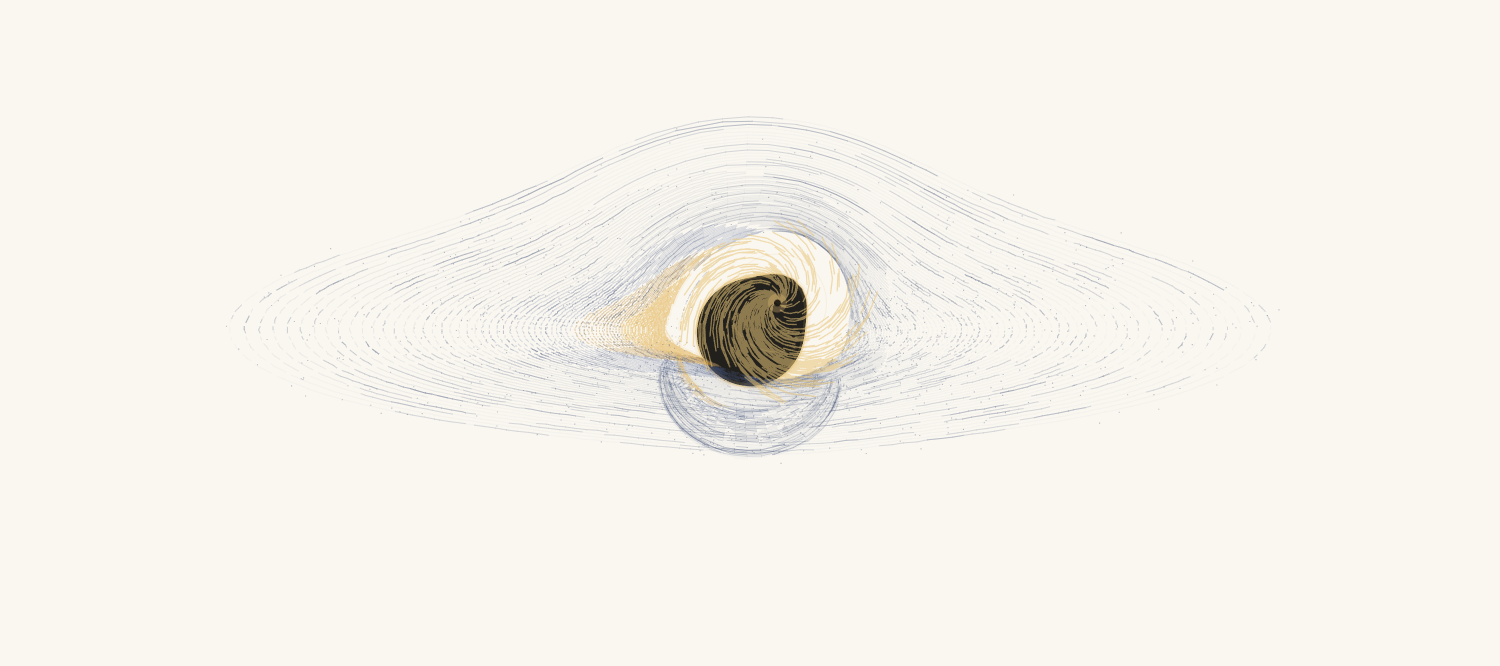
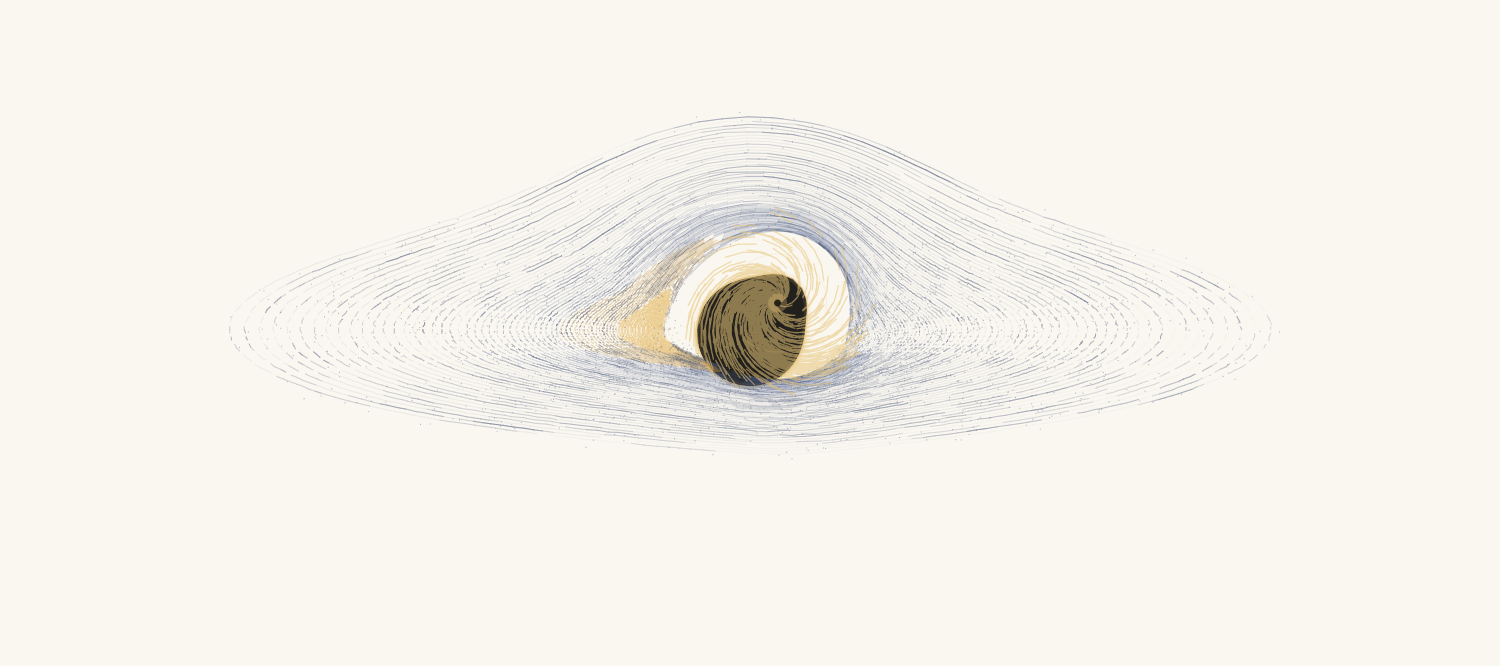
fix(proto): three physics errors in the lensed-disk render
Audited the animation against standard results. The geodesic integration,
the closed-form disk-crossing angles, the photon direction, the Doppler
construction, Omega = sqrt(M/r^3), and the 3*sqrt(3)M shadow radius all
check out. Four things did not.

1. ORBITAL SPEED was Newtonian. The Schwarzschild coordinate angular
   velocity really is Omega = sqrt(M/r^3), but the speed a static observer
   measures is r*Omega/sqrt(1-2M/r) = sqrt(M/(r-2M)). At the ISCO that is
   0.5c, not the 0.408c I was using -- so the beaming asymmetry, the whole
   reason one side burns, was understated.

2. GRAVITATIONAL REDSHIFT entered as (1-2M/r)^0.5 while the Doppler factor
   entered as delta^4. Both belong to the same redshift factor
   g = delta*sqrt(1-2M/r), and bolometric intensity goes as g^4 because
   I_nu/nu^3 is invariant. So the gravitational part must be (1-2M/r)^2.
   The inner disk was ~1.8x too bright.

3. NO OCCLUSION between image orders. A geometrically thin disk is
   optically thick, so the first crossing along a ray hides everything
   behind it. Recording every crossing rendered the secondary image on top
   of disk that should block it. Taking only the first in-range crossing
   keeps the secondary exactly where it is genuinely visible -- the band
   around the shadow -- and drops the curve count 148 -> 75 at i=78deg.

4. EMISSIVITY was an invented r^-1.15 described as physical. Replaced with
   the Shakura-Sunyaev / Page-Thorne thin-disk profile,
[…]

diff --git a/prototypes/blackhole.html b/prototypes/blackhole.html
@@ -88,7 +88,7 @@ const HOT = '232,196,120';
 // the critical impact parameter -- and it is a circle at EVERY inclination; only
 // the disk around it changes shape. On cream paper an unfilled void reads as light,
 // so the shadow has to be actual ink or the thing never feels black.
-const B_CRIT = 3 * Math.SQRT2 * Math.SQRT2 * Math.sqrt(3) / 2;   // = 3*sqrt(3)
+const B_CRIT = 3 * Math.sqrt(3);
 const SHADOW = '20,18,15';
 // Rays with b just above b_crit loop the hole many times before escaping, which is
 // why a thin, very bright photon ring sits right on the shadow's edge.
@@ -96,6 +96,16 @@ const RING_SCALE = 1.018;
 
 const INFALL_T = 0.75;   // seconds for a captured grain to reach the cursor
 const WIND = 3.6;        // radians of spiral on the way in
+
+// Observed bolometric intensity spans several orders of magnitude across the disk,
+// so it is normalised to the frame maximum and passed through a display transfer
+// exponent. This is a TONE MAP, not a physical term -- the physics stays exact and
+// the compression is confined to one honest place.
+const DISPLAY_GAMMA = 0.35;
+// Bucket edges on the tone-mapped [0,1]. The top bucket carries a wide bloom pass, so
+// it has to stay a genuinely small population -- the hot crescent, not half the disk.
+const BAND = [0.16, 0.34, 0.54, 0.79];
+const HOT_AT = 0.79;
 
 const stage = document.getElementById('stage');
 const cv = document.getElementById('c');
@@ -130,14 +140,19 @@ function rk4Profile(b) {
 const CELLS = NR * NPH;
 const gu = [new Float32Array(CELLS), new Float32Array(CELLS)];   // apparent radius, in M
 const gv = [new Float32Array(CELLS), new Float32Array(CELLS)];   // apparent angle
-const gb = [new Float32Array(CELLS), new Float32Array(CELLS)];   // beaming brightness
+const gb = [new Float32Array(CELLS), new Float32Array(CELLS)];   // observed flux (raw)
+// separate occupancy mask: the flux itself vanishes at the inner edge, so a zero
+// value is a legitimate sample and cannot double as "this cell is empty"
+const go = [new Uint8Array(CELLS), new Uint8Array(CELLS)];
 
 let curves = [];   // { ux, uy (model units), br, runs: [bucket, i0, i1], omega }
+let gMax = 0;      // peak observed flux this build, for the tone map
 
 function buildMap(incDeg) {
   const i = incDeg * Math.PI / 180, ci = Math.cos(i), si = Math.sin(i);
   const e2y = ci, e2z = -si;
-  gb[0].fill(0); gb[1].fill(0);
+  go[0].fill(0); go[1].fill(0);
+  gMax = 0;
 
   for (let bi = 0; bi < NB; bi++) {
     const b = B_MIN + (B_MAX - B_MIN) * (bi / (NB - 1));
@@ -162,21 +177,39 @@ function buildMap(incDeg) {
         let kz = -(dr * cp - r * sp);
         const kn = Math.hypot(kx, ky, kz) || 1; kx /= kn; ky /= kn; kz /= kn;
         const pd = Math.atan2(r * (sp * sps * e2y + cp * e2z), r * sp * cps);
-        const beta = Math.sqrt(M / r), g = 1 / Math.sqrt(1 - beta * beta);
+        // Local orbital speed measured by a STATIC observer at r. The Schwarzschild
+        // coordinate angular velocity is the Newtonian Omega = sqrt(M/r^3), but the
+        // locally measured speed is r*Omega / sqrt(1-2M/r) = sqrt(M/(r-2M)).
+        // The Newtonian sqrt(M/r) understates it badly: 0.408c vs the correct 0.5c
+        // at the ISCO, which visibly weakens the beaming asymmetry.
+        const beta = Math.sqrt(M / (r - 2 * M)), g = 1 / Math.sqrt(1 - beta * beta);
         const spd = Math.sin(pd), cpd = Math.cos(pd);
         const dop = 1 / (g * (1 - (beta * -spd * kx + beta * cpd * e2y * ky + beta * cpd * e2z * kz)));
-        // delta^4 beaming, gravitational redshift, and the disk's radial emission
-        // falloff -- the last is what keeps gold at the inner rim instead of
-        // flooding the whole approaching half
-        const bright = Math.min(9,
-          dop * dop * dop * dop
-          * Math.sqrt(Math.max(0, 1 - 2 * M / r))
-          * Math.pow(R_IN / r, 1.15));
+        // Total redshift factor g = delta * sqrt(1-2M/r): special-relativistic
+        // beaming times gravitational redshift. I_nu/nu^3 is a Lorentz invariant, so
+        // the BOLOMETRIC intensity scales as g^4 -- and the gravitational part must
+        // therefore enter as (1-2M/r)^2, not as a lone square root.
+        const gfac = dop * Math.sqrt(Math.max(0, 1 - 2 * M / r));
+        const g4 = gfac * gfac * gfac * gfac;
+        // Shakura-Sunyaev / Page-Thorne thin-disk emissivity: F ~ r^-3 (1 - sqrt(Rin/r)).
+        // It vanishes at the inner edge, which is what puts a dark lip inside the
+        // hot rim. Previously this was an invented r^-1.15, which is far too flat.
+        const emis = Math.pow(r, -3) * (1 - Math.sqrt(R_IN / r));
+        const flux = g4 * Math.max(0, emis);
         const ri = Math.min(NR - 1, (Math.log(r / R_IN) / LOGSPAN * NR) | 0);
         let ph = pd; if (ph < 0) ph += Math.PI * 2;
         const cell = ri * NPH + Math.min(NPH - 1, (ph / (Math.PI * 2) * NPH) | 0);
         const s = k === 0 ? 0 : 1;
-        if (gb[s][cell] === 0) { gu[s][cell] = b; gv[s][cell] = psi; gb[s][cell] = bright; }
+        if (!go[s][cell]) {
+          go[s][cell] = 1; gu[s][cell] = b; gv[s][cell] = psi; gb[s][cell] = flux;
+          if (flux > gMax) gMax = flux;
+        }
+        // A geometrically thin disk is OPTICALLY THICK: the first crossing along the
+        // ray hides everything behind it. Recording later crossings too was rendering
+        // the secondary image on top of disk that should occlude it. The secondary
+        // survives only where the direct ray misses the annulus entirely -- which is
+        // exactly the band around the shadow where it is genuinely visible.
+        break;
       }
     }
   }
@@ -189,17 +222,17 @@ function buildMap(incDeg) {
       const ux = [], uy = [], br = [];
       for (let p = 0; p < NPH; p++) {
         const cell = ri * NPH + p;
-        const bb = gb[s][cell];
-        if (bb === 0) { ux.push(NaN); uy.push(NaN); br.push(0); continue; }
+        if (!go[s][cell]) { ux.push(NaN); uy.push(NaN); br.push(0); continue; }
         ux.push(gu[s][cell] * Math.cos(gv[s][cell]));
         uy.push(-gu[s][cell] * Math.sin(gv[s][cell]));
-        br.push(bb);
+        // normalise the physical flux, then tone-map for display
+        br.push(Math.pow(gb[s][cell] / (gMax || 1), DISPLAY_GAMMA));
       }
       if (br.filter((v) => v > 0).length < 12) continue;
       // group consecutive samples of the same brightness bucket into one run, so a
       // whole colour band strokes as a single sub-path instead of per-segment calls
       const bkt = br.map((v) => v === 0 ? -1
-        : v < 0.13 ? 0 : v < 0.34 ? 1 : v < 0.70 ? 2 : v < 1.35 ? 3 : 4);
+        : v < BAND[0] ? 0 : v < BAND[1] ? 1 : v < BAND[2] ? 2 : v < BAND[3] ? 3 : 4);
       const runs = [];
       let start = -1;
       for (let p = 0; p <= NPH; p++) {
@@ -322,8 +355,8 @@ function drawField(g, t, animate, dt) {
   g.strokeStyle = `rgba(${HOT},0.55)`; g.lineWidth = 1.6 * DPR; g.stroke(ring);
 
   // bloom under the hottest band
-  g.strokeStyle = `rgba(${BUCKETS[4].rgb},0.10)`;
-  g.lineWidth = 5 * DPR; g.stroke(paths[4]);
+  g.strokeStyle = `rgba(${BUCKETS[4].rgb},0.12)`;
+  g.lineWidth = 3.5 * DPR; g.stroke(paths[4]);
   for (let i = 0; i < BUCKETS.length; i++) {
     g.strokeStyle = `rgba(${BUCKETS[i].rgb},${BUCKETS[i].a})`;
     g.lineWidth = BUCKETS[i].w * DPR;
@@ -348,7 +381,7 @@ function drawField(g, t, animate, dt) {
       if (Number.isNaN(uxv)) { started = false; continue; }
       if (started && Math.hypot(uxv - pux, uyv - puy) > JUMP) started = false;
       pux = uxv; puy = uyv;
-      if (c.br[k] > 1.35) hot = true;
+      if (c.br[k] > HOT_AT) hot = true;
       const [rx, ry] = toScreen(uxv, uyv);
       const [x, y] = lensPoint(rx, ry);
       if (started) {
@@ -401,7 +434,7 @@ function drawField(g, t, animate, dt) {
       d.cap = 0.001; d.ox = x; d.oy = y;
       continue;
     }
-    (c.br[k] > 1.35 ? dWarm : dCool).rect(x, y, sz, sz);
+    (c.br[k] > HOT_AT ? dWarm : dCool).rect(x, y, sz, sz);
   }
   g.fillStyle = 'rgba(52,66,102,0.34)'; g.fill(dCool);
   g.fillStyle = `rgba(${HOT},0.5)`;     g.fill(dWarm);
